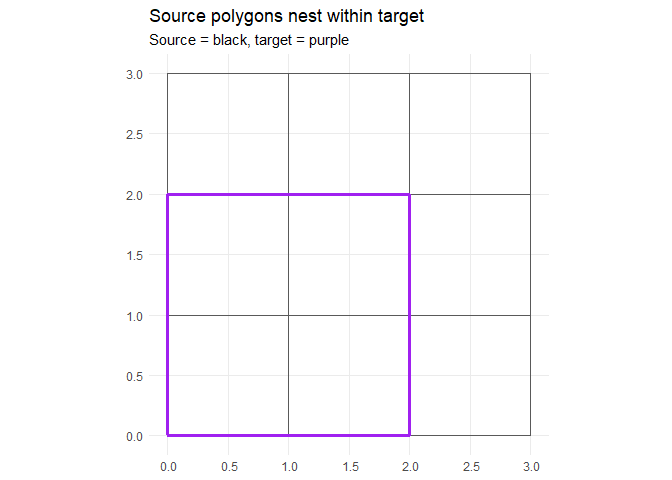
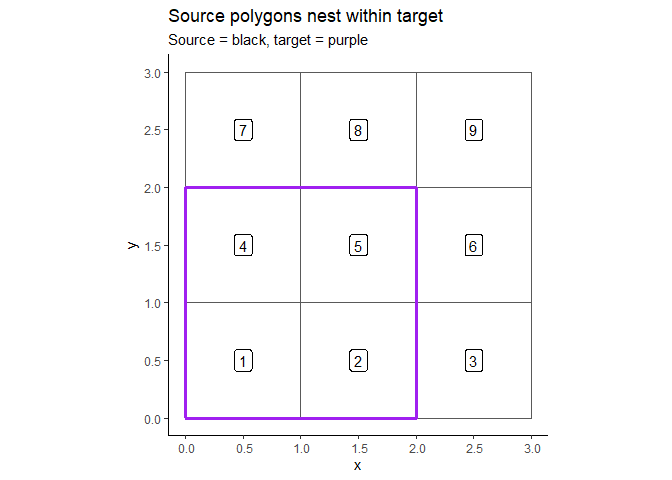
update readme

diff --git a/README.md b/README.md
@@ -36,6 +36,21 @@ remotes::install_github('https://github.com/PHSKC-APDE/kcparcelpop/')
 
 ### Construct test geographies
 
+The code below creates a 3 x 3 grid of squares as a set of “source”
+polygons. The source polygon contains the information that needs to be
+translated/aggregated to “target” polygon. In “real” instances, source
+polygons will be stuff like census tracts or ZIP codes.
+
+Two target polygons are created for demonstration purposes. The first
+nests nicely with the source polygons (e.g. can be exactly constructed
+by source polygons) whereas the second overlaps the source polygons but
+does not nest. In this example, each “target” is just one polygon, but
+it could be a collection of polygons– e.g. cities, regions, or ZIP
+codes.
+
+In general, you want the source polygons to be smaller than the target
+polygons.
+
 ``` r
 library('spatagg')
 library('sf', quietly = TRUE)
@@ -52,6 +67,7 @@ set.seed(1)
 grid_size = 3
 grid = expand.grid(x = seq_len(grid_size)-1, y = seq_len(grid_size)-1)
 
+# given a bottom left corner, create a square
 poly_points = function(x, y, step =1){
   mat = matrix(c(x, y, # bottom left
                  x+step, y, # bottom right
@@ -92,7 +108,8 @@ tp2 = sf::st_sf(tp2, sf_column_name = 'geom')
   ggplot() + geom_sf(data = source_poly, fill = NA) +
     #geom_sf(data = target_poly, fill = NA, color = 'red') +
     geom_sf(data = tp1, fill = NA, color = 'purple', size = 1.2) +
-    theme_minimal() + 
+    geom_sf_label(data = source_poly, aes(label = id)) +
+    theme_classic() + 
     ggtitle('Source polygons nest within target',
             'Source = black, target = purple')
 ```
@@ -102,8 +119,9 @@ tp2 = sf::st_sf(tp2, sf_column_name = 'geom')
 ``` r
   ggplot() + geom_sf(data = source_poly, fill = NA) +
     geom_sf(data = tp2, fill = NA, color = 'purple', size = 1.2) +
+    geom_sf_label(data = source_poly, aes(label = id)) +
     #geom_sf(data = overlap_poly, fill = NA, color = 'purple') +
-    theme_minimal() + 
+    theme_classic() + 
     ggtitle('Source polygons do not cleanly nest within target',
            'Source = black, target = purple')
 ```
@@ -123,8 +141,10 @@ weights are applied via `crosswalk`.
 
 The following command creates a set of geographic overlap weights. By
 default, `create_xwalk` expects that source and target overlap by at
-least 75%. However, `tp1` and `source_poly` only overlap by 44%, so the
-`min_overlap` option is reduced to prevent an error.
+least 75%. This default is set high because I expect most instances of
+source/target overlap to broadly cover the same area (e.g. two different
+ways of carving up KC). However, `tp1` and `source_poly` only overlap by
+44%, so the `min_overlap` option is reduced to prevent an error.
 
 ``` r
 cw1 = create_xwalk(source_poly, tp1,
@@ -142,10 +162,40 @@ knitr::kable(cw1)
 The resulting crosswalk data.frame returns a row per each source:target
 pair. `s2t_fraction` represents the percent of a source polygon that
 falls within the specified target polygon. `isect_amount` is the area of
-the intersection. `tcoverage_amount` is the area of target covered by
-source. `target_amount` is the area of the target polygon.
+the intersection (in the units squared of the CRS of source_poly).
+`tcoverage_amount` is the area of target covered by source polygons. For
+example, in this example, 4 units^2 of target is covered by source
+polygons. `target_amount` is the total area of the target polygon (by
+`target_id`). Since `tcoverage_amount == target_amount` we can infer
+that tp1 is fully covered by source_poly (which was already known, but
+hey, its fun to confirm).
 
 ##### Convert between source and target
+
+The `crosswalk` function has the following arguments:
+
+-   `source`: the polygons with estimates to be
+    converted/aggregated/translated to the target polygon(s) from the
+    `create_xwalk` step
+
+-   `source_id`: Column name of the id column for `source`
+
+-   `est`: column name of the estimate to be converted
+
+-   `proportion`: Logical flag denoting whether `est` represents
+    proportion data
+
+-   `se`: An optional name of the column containing the standard error
+    of `est`
+
+-   `by`: An optional vector of column names to repeat the translation
+    by. See `?crosswalk` for more details
+
+-   `xwalk_df`: The result of `create_xwalk` step
+
+-   `rescale`: Logical flag to determine whether the
+    conversion/aggregation weights should be scaled to approximate full
+    coverage of target by `source`
 
 ``` r
 # for counts
@@ -323,8 +373,8 @@ knitr::kable(ppcw2)
 
 The output of a “point pop” crosswalk is structured similarly to the
 fractional geographic overlap ones computed above. The main difference
-is `isect_amount`, `tcoverage_amount` and `target_amount` are in terms
-of population rather than area.
+is the units of `isect_amount`, `tcoverage_amount` and `target_amount`
+are population instead of area (e.g. unit^2)
 
 #### Convert estimates from source to target
 
@@ -364,8 +414,8 @@ r6$est
 
 Sometimes source estimates might include some metric of uncertainty that
 a user wishes to propagate to the target geography. Passing a column of
-standard errors via the `se` argument will compute, via simulation, a se
-for the target.
+standard errors via the `se` argument will compute, via simulation, a
+`se` for the target.
 
 ``` r
 # create an se for source_poly
